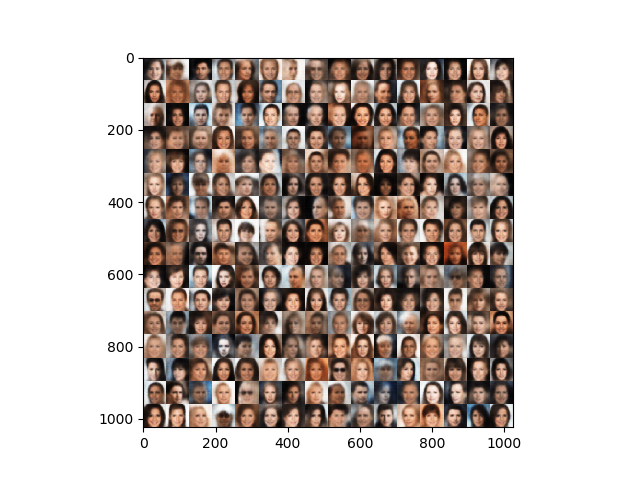
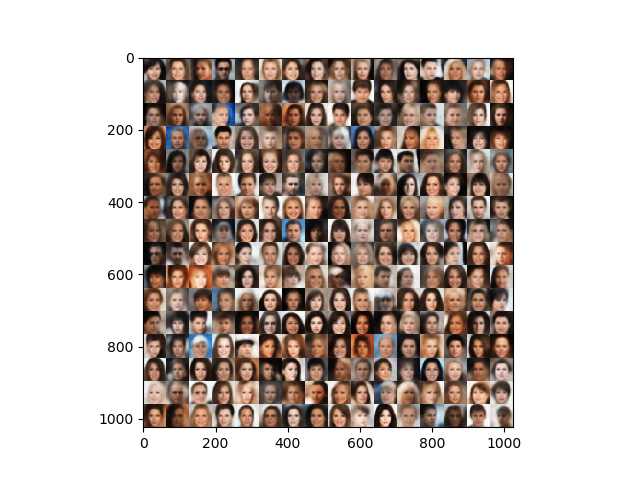
update eval

diff --git a/eval_vae.py b/eval_vae.py
@@ -8,6 +8,7 @@ import argparse
 from vae import VAE, vae_loss
 from imgdataset import ImgDataset
 from utils import imsave
+import pudb
 
 
 parser = argparse.ArgumentParser(description='VAE Example')
@@ -56,7 +57,7 @@ torch.manual_seed(args.seed)
 np.random.seed(args.seed)
 
 
-def train(vae, optimizer, train_loader, n_epochs, kl_weight=1e-3,
+def eval(vae, optimizer, train_loader, n_epochs, kl_weight=1e-3,
           valid_loader=None, n_gen=0):
 
     device = next(vae.parameters()).device
@@ -90,7 +91,7 @@ def train(vae, optimizer, train_loader, n_epochs, kl_weight=1e-3,
     #         sys.stdout.flush()
 
     #     torch.save(vae.state_dict(), './models/vae.pth')
-        vae.load_state_dict(torch.load('./models/vae_celeba.pth'))
+        vae.load_state_dict(torch.load('./models/vae_no_smile.pth'))
 
         # evaluation phase
         print()
@@ -114,31 +115,86 @@ def train(vae, optimizer, train_loader, n_epochs, kl_weight=1e-3,
             # train_loss /= i + 1
             # print('....train loss = {:.3f}'.format(train_loss.item()))
 
-            if valid_loader is None:
-                print()
-            else:  # compute validation loss
-                valid_loss = 0.
-                for i, X in enumerate(valid_loader):
-                    X = X.to(device)
+            # if valid_loader is None:
+            #     print()
+            # else:  # compute validation loss
+            #     valid_loss = 0.
+            #     for i, X in enumerate(valid_loader):
+            #         X = X.to(device)
 
-                    Xrec, z_mean, z_logvar = vae(X)
-                    valid_loss += vae_loss(Xrec, X, z_mean, z_logvar,
-                                           kl_weight=kl_weight)[0]
+            #         Xrec, z_mean, z_logvar = vae(X)
+            #         valid_loss += vae_loss(Xrec, X, z_mean, z_logvar,
+            #                                kl_weight=kl_weight)[0]
 
-                    # save original and reconstructed images
-                    if i == 0:
-                        imsave(X, './imgs/valid_orig.png')
-                        imsave(Xrec, './imgs/valid_rec.png')
+            #         # save original and reconstructed images
+            #         if i == 0:
+            #             imsave(X, './imgs/valid_orig.png')
+            #             imsave(Xrec, './imgs/valid_rec.png')
 
-                valid_loss /= i + 1
-                print('....valid loss = {:.3f}'.format(valid_loss.item()))
-                print()
+            #     valid_loss /= i + 1
+            #     print('....valid loss = {:.3f}'.format(valid_loss.item()))
+            #     print()
 
             # generate some new examples
             if n_gen > 0:
-                z = torch.randn((n_gen, vae.latent_dim)).to(device)
-                Xnew = vae.decoder(z)
-                imsave(Xnew, './imgs/gen.png')
+                vals_no_male_smile = []
+                vals_smile_no_male = []
+                vals_male_smile    = []
+                vals_male_no_smile = []
+                
+                for i, X in enumerate(dataset_no_male_smile):
+                  X = X.to(device)
+                  X = X.unsqueeze(0)
+                  X, _ = vae.module.encoder(X)
+                  vals_no_male_smile.append(X.squeeze(0))
+                  if i == 2:
+                    break
+                for i, X in enumerate(dataset_smile_no_male):
+                  X = X.to(device)
+                  X = X.unsqueeze(0)
+                  X, _ = vae.module.encoder(X)
+                  vals_smile_no_male.append(X.squeeze(0))
+                  if i == 2:
+                    break
+                for i, X in enumerate(dataset_male_smile):
+                  X = X.to(device)
+                  X = X.unsqueeze(0)
+                  X, _ = vae.module.encoder(X)
+                  vals_male_smile.append(X.squeeze(0))
+                  if i == 2:
+                    break
+                for i, X in enumerate(dataset_male_no_smile):
+                  X = X.to(device)
+                  X = X.unsqueeze(0)
+                  X, _ = vae.module.encoder(X)
+                  vals_male_no_smile.append(X.squeeze(0))
+                  if i == 2:
+                    break
+
+                vals_no_male_smile = sum(vals_no_male_smile)/3
+                vals_smile_no_male = sum(vals_smile_no_male)/3
+                vals_male_smile    = sum(vals_male_smile)   /3
+                vals_male_no_smile = sum(vals_male_no_smile)/3
+
+                gen_vals_male_smile = vals_smile_no_male - vals_no_male_smile + vals_male_no_smile
+
+                # pu.db
+
+                # z = torch.randn((n_gen, vae.module.latent_dim)).to(device)
+                Xnew = vae.module.decoder(vals_no_male_smile.unsqueeze(0))
+                imsave(Xnew, './imgs/female_neutral.png')
+
+                Xnew = vae.module.decoder(vals_smile_no_male.unsqueeze(0))
+                imsave(Xnew, './imgs/female_smile.png')
+
+                Xnew = vae.module.decoder(vals_male_smile.unsqueeze(0))
+                imsave(Xnew, './imgs/male_smile.png')
+
+                Xnew = vae.module.decoder(vals_male_no_smile.unsqueeze(0))
+                imsave(Xnew, './imgs/male_neutral.png')
+
+                Xnew = vae.module.decoder(gen_vals_male_smile.unsqueeze(0))
+                imsave(Xnew, './imgs/gen_male_smile.png')
 
 
 SetRange = transforms.Lambda(lambda X: 2*X - 1.)
@@ -149,32 +205,35 @@ transform = transforms.Compose([transforms.RandomHorizontalFlip(),
                                                    args.img_resize)),
                                 transforms.ToTensor(),
                                 SetRange])
-dataset = ImgDataset(args.data_path, transform=transform)
+dataset_no_male_smile = ImgDataset('../glow-gatech-7/img_align_celeba_no_male_smile/', transform=transform)
+dataset_smile_no_male = ImgDataset('../glow-gatech-7/img_align_celeba_smile_no_male/', transform=transform)
+dataset_male_smile = ImgDataset('../glow-gatech-7/img_align_celeba_male_smile/', transform=transform)
+dataset_male_no_smile = ImgDataset('../glow-gatech-7/img_align_celeba_male_no_smile/', transform=transform)
 
 # create data indices for training and validation splits
-dataset_size = len(dataset)  # number of samples in training + validation sets
-indices = list(range(dataset_size))
-split = int(np.floor(args.valid_split * dataset_size))  # samples in valid. set
-np.random.shuffle(indices)
-train_indices, valid_indices = indices[split:], indices[:split]
+# dataset_size = len(dataset)  # number of samples in training + validation sets
+# indices = list(range(dataset_size))
+# split = int(np.floor(args.valid_split * dataset_size))  # samples in valid. set
+# np.random.shuffle(indices)
+# train_indices, valid_indices = indices[split:], indices[:split]
 
-train_sampler = torch.utils.data.sampler.SubsetRandomSampler(train_indices)
-valid_sampler = torch.utils.data.sampler.SubsetRandomSampler(valid_indices)
+# train_sampler = torch.utils.data.sampler.SubsetRandomSampler(train_indices)
+# valid_sampler = torch.utils.data.sampler.SubsetRandomSampler(valid_indices)
 
-train_loader = torch.utils.data.DataLoader(dataset, batch_size=args.batch_size,
-                                           shuffle=False, num_workers=4,
-                                           sampler=train_sampler)
+# train_loader = torch.utils.data.DataLoader(dataset, batch_size=args.batch_size,
+                                           # shuffle=False, num_workers=4,
+                                           # sampler=train_sampler)
 
-valid_loader = torch.utils.data.DataLoader(dataset, batch_size=args.batch_size,
-                                           shuffle=False, num_workers=4,
-                                           sampler=valid_sampler)
+# valid_loader = torch.utils.data.DataLoader(dataset, batch_size=args.batch_size,
+#                                            shuffle=False, num_workers=4,
+#                                            sampler=valid_sampler)
 
-# print('{} samples for training'
-      # .format(int((1 - args.valid_split) * dataset_size)))
-print('{} samples for validation'
-      .format(int(args.valid_split * dataset_size)))
+# # print('{} samples for training'
+#       # .format(int((1 - args.valid_split) * dataset_size)))
+# print('{} samples for validation'
+#       .format(int(args.valid_split * dataset_size)))
 
-img_channels = dataset[0].shape[0]
+img_channels = dataset_no_male_smile[0].shape[0]
 
 vae = VAE(img_channels,
           args.img_resize,
@@ -186,10 +245,12 @@ vae = VAE(img_channels,
           out_activation=nn.Tanh,
           batch_norm=args.batch_norm).to(DEVICE)
 print(vae)
+vae = nn.DataParallel(vae)
 
-optimizer = optim.Adam(vae.parameters(),
-                       lr=args.lr,
-                       weight_decay=0.)
 
-train(vae, optimizer, train_loader, args.epochs, kl_weight=args.kl_weight,
-      valid_loader=valid_loader, n_gen=args.batch_size)
+# optimizer = optim.Adam(vae.parameters(),
+                       # lr=args.lr,
+                       # weight_decay=0.)
+
+eval(vae, None, None, args.epochs, kl_weight=args.kl_weight,
+      valid_loader=None, n_gen=args.batch_size)

diff --git a/train_vae.py b/train_vae.py
@@ -12,7 +12,7 @@ from utils import imsave
 
 parser = argparse.ArgumentParser(description='VAE Example')
 parser.add_argument('--data-path', type=str,
-                    default='../glow-gatech-7/img_align_celeba/',
+                    default='../glow-gatech-7/img_align_celeba_no_male_smile/',
                     help='path for the images dir')
 parser.add_argument('--img-crop', type=int, default=148,
                     help='size for center cropping (default: 148)')
@@ -89,7 +89,7 @@ def train(vae, optimizer, train_loader, n_epochs, kl_weight=1e-3,
                 .format(kl_loss.item()))
             sys.stdout.flush()
 
-        torch.save(vae.state_dict(), './models/vae_new.pth')
+        torch.save(vae.state_dict(), './models/vae_no_smile.pth')
 
         # evaluation phase
         print()
